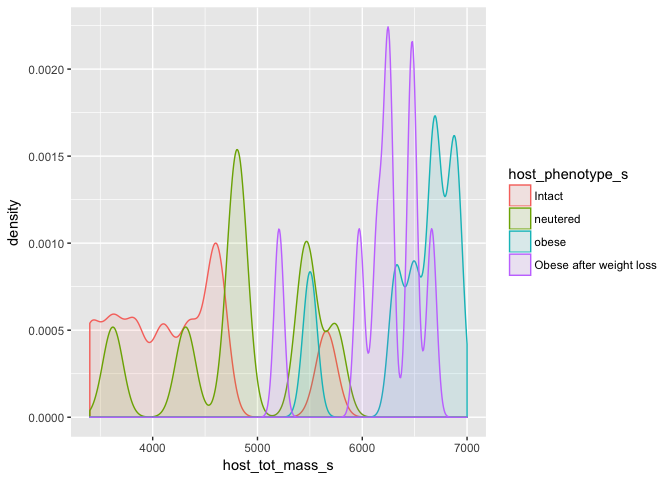
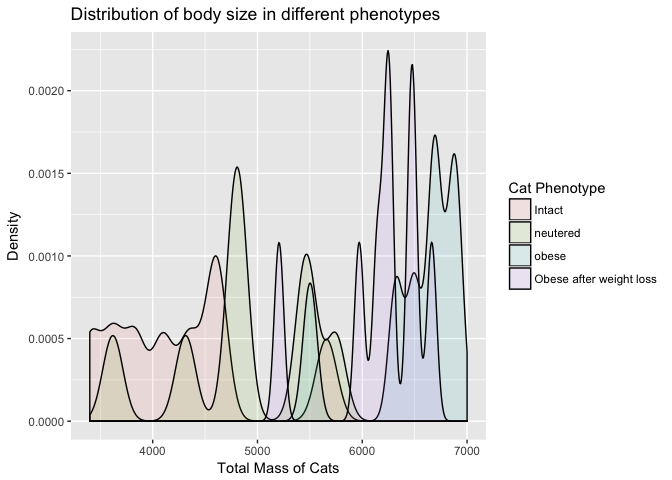
Commit most recent knit

diff --git a/Final_Report.md b/Final_Report.md
@@ -1,7 +1,7 @@
-Final Report: Your Title Here
+Final Report: The Effects of Neutering on Female and Male Adult Cats
 ================
-Don Francisco
-November 22, 2017
+Chelsea Noack
+November 29, 2017
 
 Introduction
 ============
@@ -11,6 +11,7 @@ REFERENCE: 2-3 pages will be 1000-1500
 -   Domestication of cats
 -   Our love for cats
 -   Being obese, as well as for humans, will cause early death, include statistics
+-   **HYPOTHESIS**: Females will be larger overall, especially after neutering, than male cats. This puts female cats at a severe disadavntage.
 -   What if it's not just diet? Does neutering play a role? Population control is important too. Here I ask if there are particular bacterias within striclty obese, neutered cats that is preventing them from maintaining a healthy weight? If so, can this lead to a positive medication which can be administered to the cats?
 -   In the study by so and so, they studied intact and neutered cats in order to find a connection between obesity and being neutered.
 
@@ -22,40 +23,61 @@ Methods
 Study design
 ------------
 
-REFERENCE: 250 words = 1/2 page
+Fischer et al. used twenty-four cats from the University of California, Davis with a median age of 6.4 years. All cats were pathogen free domestic shorthairs. From the twenty-four cats, eight of the cats were obese with four males and four females. Eight cats were lean and not neutered, again with four males and four females. Eight cats, six males and two females, were lean and neutered (Fischer *et al.*, 2017). All twenty-four cats had the same diet before and during the study. Every cat underwent a physical and blood sample before the experiment began.
 
-Add about half a page here. In this section instead of first person (I/we), use the authors of the paper you selected, since you'll just be describing what they did, based on the methods in their paper.
+Cats which were lean and both neutered or not neutered housed together. All had the same diet *but* their intake was not measured. The night before the fecal sampling, the cats slept alone. Fischer et al. performed BCS (body composition scores) for each cat before sampling.
+
+The obese, neutered cats underwent castration/spaying 1-6 years before the study (Fischer *et al.*, 2017). Unlike the lean cats, the obese cats slept alone. The obese neutered ate the normal diet given to all cats for ten days. For six weeks, they ate 60-70% of the prior intake. Again, unlike the lean cats, their intake was now measured. Fischer et al. recorded the cats' weights every week. They also recorded fecal samples before and after the dietary restriction began (Fischer *et al.*, 2017).
 
 Sample origin and sequencing
 ----------------------------
 
-REFERENCE: 250 words = 1/2 page
+Before sequencing the data, Fischer et al. collected fecal samples from the cat litter box once a day for three days straight. They monitored the cats and they did not collect any samples which were 15 minutes old. To get the bacterial DNA, Fischer et al. used bead-beating methods. Bead-beating is a way to release DNA, RNA, and proteins in the cells of a sample. They used a commercial DNA extraction kit (Fischer *et al.*, 2017). To bead-beat, samples go in tubes then on a homogenizer. A homogenizer which is a lab tool used to mix materials using high energy. They mixed "for 60 seconds at a speed of 4 m/s" (Fischer *et al.*, 2017).
 
-Add about half a page here. In this section instead of first person (I/we), use the authors of the paper you selected, since you'll just be describing what they did, based on the methods in their paper.
+The 16S rRNA amplified using a universal bacterial primer. A universal bacterial primers is important to interpret PCR results. Especially for microbial communities (Mao *et al.*, 2012). PCR (polymerase chain reaction) is a technique used to make a lot of copies of a segment of DNA.
+
+After PCR amplification, Fischer et al. added amplicon products of different samples. They purified the samples using AgencourtAmpure beads. The beads were important for high-throughput purification of the PCR amplicons. Then the samples combined in equal concentrations. Fischer et al. sequenced th samples using Roche 454 FLX titanium instruments (Fischer *et al.*, 2017). Pyrosequencing using instruments like Roche 454 have big advantages versus traditional Sanger sequencing. Primarily because they can examine many samples from many microbial communities (Tamaki *et al.*, 2011). Once the raw sequences were complete, I downloaded them for my analysis. I downloaded them from NCBI’s Sequence Read Archive (<http://www.ncbi.nlm.nih.gov/Traces/sra>) under accession no. SRP066010.
 
 Computational
 -------------
 
-REFERENCE: 250-500 words
+First, I downloaded the data from the provided link. This was a two-part process. First, I had to download the SRAtoolkit from NCBI's website. Because the data I used was in .sra format, the toolkit converts it to .fastq. I wanted .fastq so I could perform a quality check later on. After downloading the toolkit, I performed a check to make sure it worked. The steps taken came from the toolkit's website (<https://www.ncbi.nlm.nih.gov/books/NBK158900/>). Once I assured that it worked, I wrote a Bash script which downloaded the data into my computer. Because the files were fairly small, this did not take much time. The files downloaded into my raw data folder and saved as fastq, thanks to the toolkit.
 
-These are the methods you used to do your bioinformatic analyses analyses. Should probably be between 0.5 and 1 pages. At a very minimum should include citations for DADA2 and phyloseq if you are doing an amplicon study, or other citations as appropriate.
+With the data downloaded into my computer, I transferred it to RStudio to begin my analysis. In order to do so, I downloaded necessary, but helpful, libraries. The libraries included dplyr, tidyr, knitr, ggplot2, citr, seqinr, mctoolsr, dada2, and phyloseq. Dplyr, tidyr, knitr, and ggplot2 are general use packages to help analyze the data.
+
+DADA2 and phyloseq were extremely important for this process. DADA2 comes from bioconductor. Bioconductor serves as the primary package to clean up and analyze our data. DADA2 specifically cleans up amplicon errors (Callahan *et al.*, 2016). It can also extract sample names from their original .fastq names. Phyloseq takes on microbiome analysis in R (McMurdie and Holmes, 2013). Once all files downloaded and organized, I did a QC (quality check) report on each individual file.
+
+Initially, I trimmed the files based off of only the QC scores (they dropped around ~400 bp). After later reviewing the amount of errors in the sequences, I decided to extend the trim to 600. To counterbalance this, I made sure the quality cut off was at a smaller number (originally at 5, now at 2). Thus, we would get more data to analyze with adequate quality. After a proper trim and error check, I deleted any duplicate sequences. 454 Roche technology sequenced the data, so I used the suggested parameters based off of (<https://benjjneb.github.io/dada2/>). This is when DADA2 proved to be vital, as it facilitated the process for my specific amplicon data set. In the final steps, I observed the distribution of trimmed and denoised sequences. While the data was poorly sequenced, for my purposes it would work alright. Then, I removed chimeras.
+
+Now, the data given is fully processed. Before analysis, I created a metadata table and a melted table to observe during research.
 
 Results
 =======
 
-Subsections are ok in the results section too
----------------------------------------------
+The data proved to be interesting and not perfectly correlated to my hypothesis. I began my analysis using a grid plot in figure 1 of the overall abundance of the four sample groups between males and females. In the figure, we see that males who are neutered are in the highest abundance, followed by males who are obese undergoing weight loss and females who are obese undergoing weight loss. In the least abundance is males who are intact, obese males, and females who are intact. Given this information, I went forward and created a density plot of the overall abundance of total mass between the four sample groups. While this did not include sex, it indicated that, generally, cats obese undergoing weight loss were the most dense. The second-most dense were the obese cats. The least dense were intact cats whom kept a generally uniform distribution of total mass. That cats who were neutered were neither most or least dense, but showed the greatest range of total body mass.
+
+**The role of body mass**
+
+After analyzing the abundance of different phenotypes by sex and the distribution of body masses, I wanted to look deeper into the body mass question. What were the mean body masses among the four phenotypes for both male and female cats? In Table 1, the phenotype with the highest mean body mass are the obese undergoing weight loss female cats, followed by obese male cats undergoing weight loss. The phenotype with the lowest mean body mass are the intact male cats, followed by intact females. The medians of body mass are obese male cats and neutered female cats. Given the information in Table 1, I wanted to see it visually. Figure 3 depicts Table 1, and in it we see that the difference between females and males in terms of body mass to phenotype is not very significant. The most difference is between intact females and males. The obese cats undergoing weight loss are nearly similar between males and females. We see the general trend of increased body mass and phenotype along both sexes with males being generally larger.
+
+**The role of microbial communities**
+
+Next, I wanted to see which microbial communities were playing a role, if at all. Thus, I made a density plot indicating the abundance of certain microbial communities in different phenotypes and sexes. Figure 4 indicates the lower range of body masses from the data, while Figure 5 shows the upper range. I divided these graphs for better visualization of the data as there were many data points to take into account. In Figure 4, we see that female cats dominate the lower weight range class among all phenotypes, showing a fairly normal distribution. Firmicutes shows the highest abundance in the lower weight ranges of both males and females. In Figure 5, males dominate the upper body weight range with uneven peaks, while females have a moderate range with only two dominant peaks. Firmicutes, again, have the highest density of both males and females. Visibly, Bacteriodetes also have a high density between the two sexes. Proteobacteria and Fusobacteria have intense fluctuations between sex and body mass.
+
+The microbial community question continued to linger, so I dug further. In Figure 6, I used a grid plot instead for better visualization of my question. We see a new phylum option as 'not applicable' having the highest abundance of female and male cats. After, Firmicutes, Bacteriodetes, and Actinobacteria. The lowest abundance is Fusobacteria, Proteobacteria, and Tenericutes.
 
 ``` r
 load("output/phyloseqobject.RData")
 ```
 
 ``` r
-# COMMENT HERE
+# First figure indicating the general schema of the data
 ggplot(data=melted_obj, 
           aes(x=host_sex_s, y=Abundance)) +
   geom_point() +
-  facet_grid(. ~ host_phenotype_s)
+  facet_grid(. ~ host_phenotype_s) +
+  labs(title = "Abundance of male and female cats with different phenotypes",
+       x = "Sex of Cat")
 ```
 
 ![](Final_Report_files/figure-markdown_github-ascii_identifiers/gridplot-sex-abundance-phenotype-1.png)
@@ -63,16 +85,93 @@ ggplot(data=melted_obj,
 **Figure 1:** A grid plot of abundance of female and male cats whom are intact, neutered, obese, and who were obese before weight loss.
 
 ``` r
+# Second figure using density to show the range of body mass to phenotype
+melted_obj %>%
+ggplot(aes(host_tot_mass_s, fill = host_phenotype_s)) +
+  geom_density(alpha = 0.1) +
+  xlim(3400, 7000) +
+  labs(title = "Distribution of body size in different phenotypes",
+       x = "Total Mass of Cats", 
+       y = "Density", 
+       fill = "Cat Phenotype")
+```
+
+![](Final_Report_files/figure-markdown_github-ascii_identifiers/density-mass-phenotype-1.png)
+
+**Figure 2**: A density plot of host's total mass to its phenotype.
+
+| host\_phenotype\_s      | host\_sex\_s |  mean\_bodymass|
+|:------------------------|:-------------|---------------:|
+| Obese after weight loss | female       |        5949.000|
+| Obese after weight loss | male         |        6410.250|
+| obese                   | female       |        6306.000|
+| obese                   | male         |        6746.667|
+| neutered                | female       |        4205.500|
+| neutered                | male         |        5103.333|
+| Intact                  | female       |        3739.750|
+| Intact                  | male         |        4804.750|
+
+**Table 1**: Mean body mass among phenotypes and sexes.
+
+``` r
+meanmass_8 %>%
+  ggplot(aes(x = host_sex_s,
+             y = mean_bodymass,
+             fill = host_phenotype_s)) +
+    geom_col(position = "dodge") +
+  ggtitle("Cat sex to mean body mass over four phenotypes") +
+  xlab("Cat Sex") + ylab("Mean Body Mass") + labs(fill = "Cat Phenotype")
+```
+
+![](Final_Report_files/figure-markdown_github-ascii_identifiers/unnamed-chunk-2-1.png)
+
+**Figure 3**: Using the table, the mean body mass visualized with a bar graph.
+
+``` r
+# Comment here
+melted_obj %>%
+ggplot(aes(host_tot_mass_s, fill = host_sex_s, colour = Phylum)) +
+  geom_density(alpha = 0.1) +
+  xlim(2500, 5000) +
+  ggtitle("Lower distribution of body mass across bacterial phyla and cat sex") +
+  xlab("Cat total mass") + ylab("Density") + labs(fill = "Cat sex", colour = "Bacteria phylum")
+```
+
+    ## Warning: Removed 11533 rows containing non-finite values (stat_density).
+
+![](Final_Report_files/figure-markdown_github-ascii_identifiers/density-sex-lowermass-phylum-1.png)
+
+**Figure 4**: A density plot of the lower range weight class of females and males and the correlating Phylums.
+
+``` r
+# Comment here
+melted_obj %>%
+ggplot(aes(host_tot_mass_s, fill = host_sex_s, colour = Phylum)) +
+  geom_density(alpha = 0.1) +
+  xlim(5500, 7000) +
+    ggtitle("Upper distribution of body mass across bacterial phyla and cat sex") +
+  xlab("Cat total mass") + ylab("Density") + labs(fill = "Cat sex", colour = "Bacteria phylum")
+```
+
+    ## Warning: Removed 9105 rows containing non-finite values (stat_density).
+
+![](Final_Report_files/figure-markdown_github-ascii_identifiers/density-sex-uppermass-pylum-1.png)
+
+**Figure 5**: A density plot of the upper range weight class of females and males and the correlating Phylums.
+
+``` r
 # Comment here
 ggplot(data=melted_obj, 
           aes(x=host_sex_s, y=Abundance)) +
   geom_point() +
-  facet_grid(. ~ Phylum)
+  facet_grid(. ~ Phylum) +
+  labs(title = "Abundance of male and female cats to bacterial phylum",
+       x = "Sex of Cat")
 ```
 
 ![](Final_Report_files/figure-markdown_github-ascii_identifiers/gridplot-abundance-sex-phylum-1.png)
 
-**Figure 2**: A grid plot of the abundance of certain phylums in both males and females.
+**Figure 6**: A grid plot of the abundance of certain phylums in both males and females.
 
 ![](Final_Report_files/figure-markdown_github-ascii_identifiers/baplot-phenotype-sex-age-1.png)
 
@@ -82,47 +181,7 @@ ggplot(data=melted_obj,
 
 **Figure 4**: A bar plot showing age against phylum and category of intact, neutered, obese, and obese after weight loss.
 
-``` r
-# Comment here
-melted_obj %>%
-ggplot(aes(host_tot_mass_s, fill = host_phenotype_s, colour = host_phenotype_s)) +
-  geom_density(alpha = 0.1) +
-  xlim(3400, 7000)
-```
-
-![](Final_Report_files/figure-markdown_github-ascii_identifiers/density-mass-phenotype-1.png)
-
-**Figure 5**: A density plot of host's total mass to its phenotype.
-
-``` r
-# Comment here
-melted_obj %>%
-ggplot(aes(host_tot_mass_s, fill = host_sex_s, colour = Phylum)) +
-  geom_density(alpha = 0.1) +
-  xlim(2500, 5000)
-```
-
-    ## Warning: Removed 11533 rows containing non-finite values (stat_density).
-
-![](Final_Report_files/figure-markdown_github-ascii_identifiers/density-sex-lowermass-phylum-1.png)
-
-**Figure 6**: A density plot of the lower range weight class of females and males and the correlating Phylums.
-
-``` r
-# Comment here
-melted_obj %>%
-ggplot(aes(host_tot_mass_s, fill = host_sex_s, colour = Phylum)) +
-  geom_density(alpha = 0.1) +
-  xlim(5500, 7000)
-```
-
-    ## Warning: Removed 9105 rows containing non-finite values (stat_density).
-
-![](Final_Report_files/figure-markdown_github-ascii_identifiers/density-sex-uppermass-pylum-1.png)
-
-**Figure 7**: A density plot of the upper range weight class of females and males and the correlating Phylums.
-
-In addition to a minimum of 5-10 figures/tables (and associated captions), you should include sufficient text in this section to describe what your findings were. Remember that in the results section you just describe what you found, but you don't interpret it - that happens in the discussion. 2-3 pages.
+CONCLUSION
 
 Discussion
 ==========
@@ -133,3 +192,13 @@ Add around 3-4 pages interpreting your results and considering future directions
 
 Sources Cited
 =============
+
+Callahan,B.J. *et al.* (2016) DADA2: High-resolution sample inference from illumina amplicon data. *Nature Methods*, **13**, 581–583.
+
+Fischer,M.M. *et al.* (2017) Effects of obesity, energy restriction and neutering on the faecal microbiota of cats. *British Journal of Nutrition*, **118**, 513–524.
+
+Mao,D.-P. *et al.* (2012) Coverage evaluation of universal bacterial primers using the metagenomic datasets. *BMC microbiology*, **12**, 66.
+
+McMurdie,P.J. and Holmes,S. (2013) Phyloseq: An r package for reproducible interactive analysis and graphics of microbiome census data. *PLoS ONE*, **8**, e61217.
+
+Tamaki,H. *et al.* (2011) Analysis of 16S rRNA amplicon sequencing options on the roche/454 next-generation titanium sequencing platform. *PloS one*, **6**, e25263.
